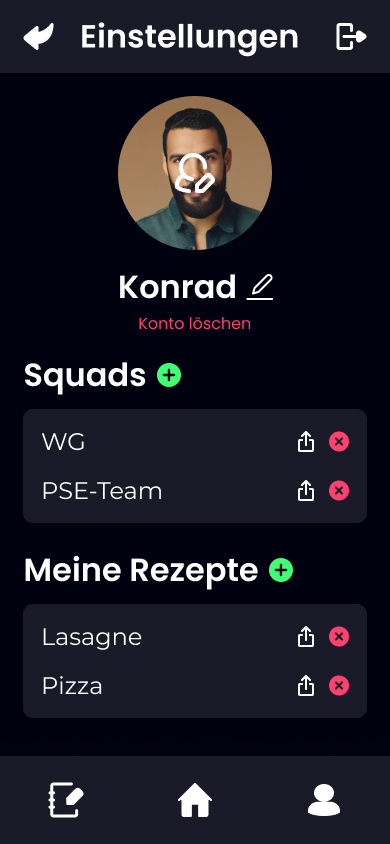
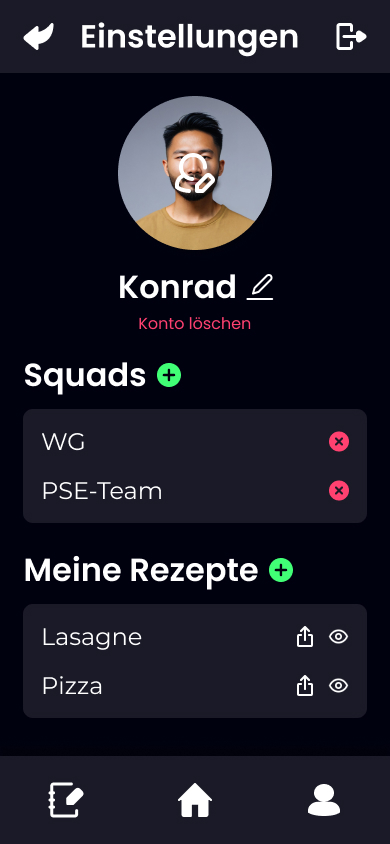
Update Images and fix referencing

diff --git a/pflichtenheft/pflichtenheft.tex b/pflichtenheft/pflichtenheft.tex
@@ -242,11 +242,9 @@ Beim Auswählen von Gruppenmitgliedern hat gibt es die Möglichkeit das Gruppenm
     Abbildung 3.3: Aktivitätsdiagramm: Verwaltung als Admin
     \label{fig:A33}
 \end{figure}
-
 \newpage
 
-
-\section{Benutzeroberfläche/Schnittstellen}
+\section{Benutzeroberfläche}
 \renewcommand{\thesubsection}{$\langle$UI\arabic{subsection}$\rangle$}
 
 In diesem Kapitel wird die Benutzerberfläche erläutert. Es wird auf die Darstellung der einzel- nen Funktionen sowie die Navigation zwischen diesen eingegangen. Alle hier gezeigten Abbildungen dienen lediglich der Veranschaulichung und sind nicht als fertige Entwürfe zu verstehen.
@@ -266,10 +264,10 @@ Hat ein Nutzer sein Passwort vergessen, so kann er zur Passwort-Zurücksetzen-An
 \subsection{Passwort-Zurücksetzen-Ansicht}
 \label{ui:PasswordResetView}
 Hier (\autoref{fig:PasswordResetView}) kann der Nutzer sein Password zurücksetzen lassen, indem er seine E-Mail-Adresse eingibt. Durch Betätigen des Weiter-Buttons bekommt er eine E-Mail zugeschickt, in der sich ein Link befindet, mit dem er ein neues Passwort vergeben kann. Außerdem wird er in der App auf die Anmeldeansicht \ref{ui:LoginView} weitergeleitet.
-\subsection{Gruppen-Beitritts-Ansicht}
 
+\subsection{Gruppen-Beitritts-Ansicht}
 \label{ui:GroupJoiningView}
-In dieser Ansicht (\autoref{fig:GroupJoinginView}) kann der Nutzer einer bereits bestehenden Gruppe beitreten. Dazu kann er entweder ein Gruppen-Kürzel eingeben oder mit Hilfe der Handykamera einen QR-Code scannen. In dieser Ansicht gibt es einige Unterschiede, je nachdem ob der Nutzer nach der Registrierungsansicht \ref{ui:RegisterView} oder von der Verwaltungsansicht \ref{ui:SettingsView} auf diese Seite gelangt. Im ersten Fall gibt es noch einen Überspringen-Knopf, mit dem der Nutzer keiner Gruppe beitritt, sondern direkt auf die Hauptansicht \ref{ui:MainView} gelangt. Dorthin wird er auch weitergeleitet, wenn er einer Gruppe beigetreten ist. Im zweiten Fall gibt es einen Zurück-Knopf, mit dem der Nutzer auf die Verwaltungsansicht \ref{ui:SettingsView} zurückgelangt. Das ist auch der Fall, nachdem er einer Gruppe beigetreten ist.
+In dieser Ansicht (\autoref{fig:GroupJoiningView}) kann der Nutzer einer bereits bestehenden Gruppe beitreten. Dazu kann er entweder ein Gruppen-Kürzel eingeben oder mit Hilfe der Handykamera einen QR-Code scannen. In dieser Ansicht gibt es einige Unterschiede, je nachdem ob der Nutzer nach der Registrierungsansicht \ref{ui:RegisterView} oder von der Verwaltungsansicht \ref{ui:SettingsView} auf diese Seite gelangt. Im ersten Fall gibt es noch einen Überspringen-Knopf, mit dem der Nutzer keiner Gruppe beitritt, sondern direkt auf die Hauptansicht \ref{ui:MainView} gelangt. Dorthin wird er auch weitergeleitet, wenn er einer Gruppe beigetreten ist. Im zweiten Fall gibt es einen Zurück-Knopf, mit dem der Nutzer auf die Verwaltungsansicht \ref{ui:SettingsView} zurückgelangt. Das ist auch der Fall, nachdem er einer Gruppe beigetreten ist.
 Alternativ kann der Nutzer auch eine Gruppe erstellen, indem er zur Gruppen-Erstellungs-Ansicht \ref{ui:GroupCreationView} wechselt.
 
 \subsection{Gruppen-Erstellungs-Ansicht}
@@ -304,9 +302,11 @@ Zudem kann der Nutzer sich ausloggen mit dem Symbol oben rechts. Daraufhin wird 
 \subsection{Gruppen-Detail-Ansicht}
 \label{ui:GroupDetailView}
 In der Gruppen-Detail-Ansicht (\autoref{fig:GroupDetailView}) kann der Nutzer die Mitglieder und Rezepte einer Gruppe ansehen. Durch den QR-Code-Button gelangt er zur QR-Code-Ansicht \ref{ui:QRCodeView}. Durch Klick auf das Verlassen-Symbol kann die Gruppe verlassen werden. Mit dem Plus-Symbol neben der Mitglieder-Sektion wird das Gruppenkürzel in die Zwischenablage kopiert und kann geteilt werden. Durch Klick auf ein Rezept wird der Nutzer zur entsprechenden Rezeptansicht \ref{ui:RecipeView} weitergeleitet. Als Administrator hat man zudem die Möglichkeit die Gruppe aufzulösen, woraufhin der Nutzer wieder auf die Verwaltungsansicht \ref{ui:SettingsView} gelangt. Zudem kann er Nutzer aus der Gruppe entfernen, bannen oder zu Administratoren ernennen bzw. diesen Titel wieder aberkennen. Außerdem kann er Rezepte für alle Gruppenmitglieder außer dem Autor verstecken bzw. wieder einblenden. Weiterhin kann er den Gruppennamen ändern, indem er auf das Stift-Symbol drückt. Auch hier gibt es wieder die Navigationsleiste aus \ref{ui:MainView}.
+
 \subsection{QR-Code-Ansicht}
 \label{ui:QRCodeView}
 In der QR-Code-Ansicht (\autoref{fig:QRCodeView}) wird der QR-Code einer Gruppe angezeigt. Durch den Zurück-Button kommt der Nutzer zurück zur Gruppen-Detail-Ansicht (\ref{ui:GroupDetailView}). Auch hier gibt es wieder die Navigationsleiste aus \ref{ui:MainView}.
+
 \subsection*{Abbildungen}
 \begin{figure}[htp]
     \begin{minipage}
@@ -336,8 +336,8 @@ In der QR-Code-Ansicht (\autoref{fig:QRCodeView}) wird der QR-Code einer Gruppe 
         [t]{0.49\textwidth}
         \centering
         \includegraphics[height=80mm]{images/ui/GroupJoiningView.jpg}
-        \label{fig:GroupJoiningView}
         \caption{Gruppen-Beitritts-Ansicht \ref{ui:GroupJoiningView}}
+        \label{fig:GroupJoiningView}
     \end{minipage}
 \end{figure}
 \begin{figure}[htp]
@@ -361,15 +361,15 @@ In der QR-Code-Ansicht (\autoref{fig:QRCodeView}) wird der QR-Code einer Gruppe 
         [t]{0.49\textwidth}
         \centering
         \includegraphics[height=80mm]{images/ui/RecipeView.jpg}
-        \label{fig:RecipeView}
         \caption{Rezeptansicht \ref{ui:RecipeView}}
+        \label{fig:RecipeView}
     \end{minipage}
     \begin{minipage}
         [t]{0.49\textwidth}
         \centering
         \includegraphics[height=80mm]{images/ui/RecipeCreationView.jpg}
-        \label{fig:RecipeCreationView}
         \caption{Rezept-Erstellungs-Ansicht \ref{ui:RecipeCreationView}}
+        \label{fig:RecipeCreationView}
     \end{minipage}
 \end{figure}
 \begin{figure}[htp]
@@ -377,8 +377,8 @@ In der QR-Code-Ansicht (\autoref{fig:QRCodeView}) wird der QR-Code einer Gruppe 
         [t]{0.49\textwidth}
         \centering
         \includegraphics[height=80mm]{images/ui/IngredientPickerView.jpg}
-        \label{fig:IngredientPickerView}
         \caption{Zutaten-Auswahl-Ansicht \ref{ui:IngredientPickerView}}
+        \label{fig:IngredientPickerView}
     \end{minipage}
     \begin{minipage}
         [t]{0.49\textwidth}
@@ -397,7 +397,7 @@ In der QR-Code-Ansicht (\autoref{fig:QRCodeView}) wird der QR-Code einer Gruppe 
         \label{fig:GroupDetailView}
     \end{minipage}
     \begin{minipage}
-        [t]{0.49\textwidth}
+        [t]{0.49\textwidth} 
         \centering
         \includegraphics[height=80mm]{images/ui/QRCodeView.jpg}
         \caption{QR-Code-Ansicht \ref{ui:QRCodeView}}
